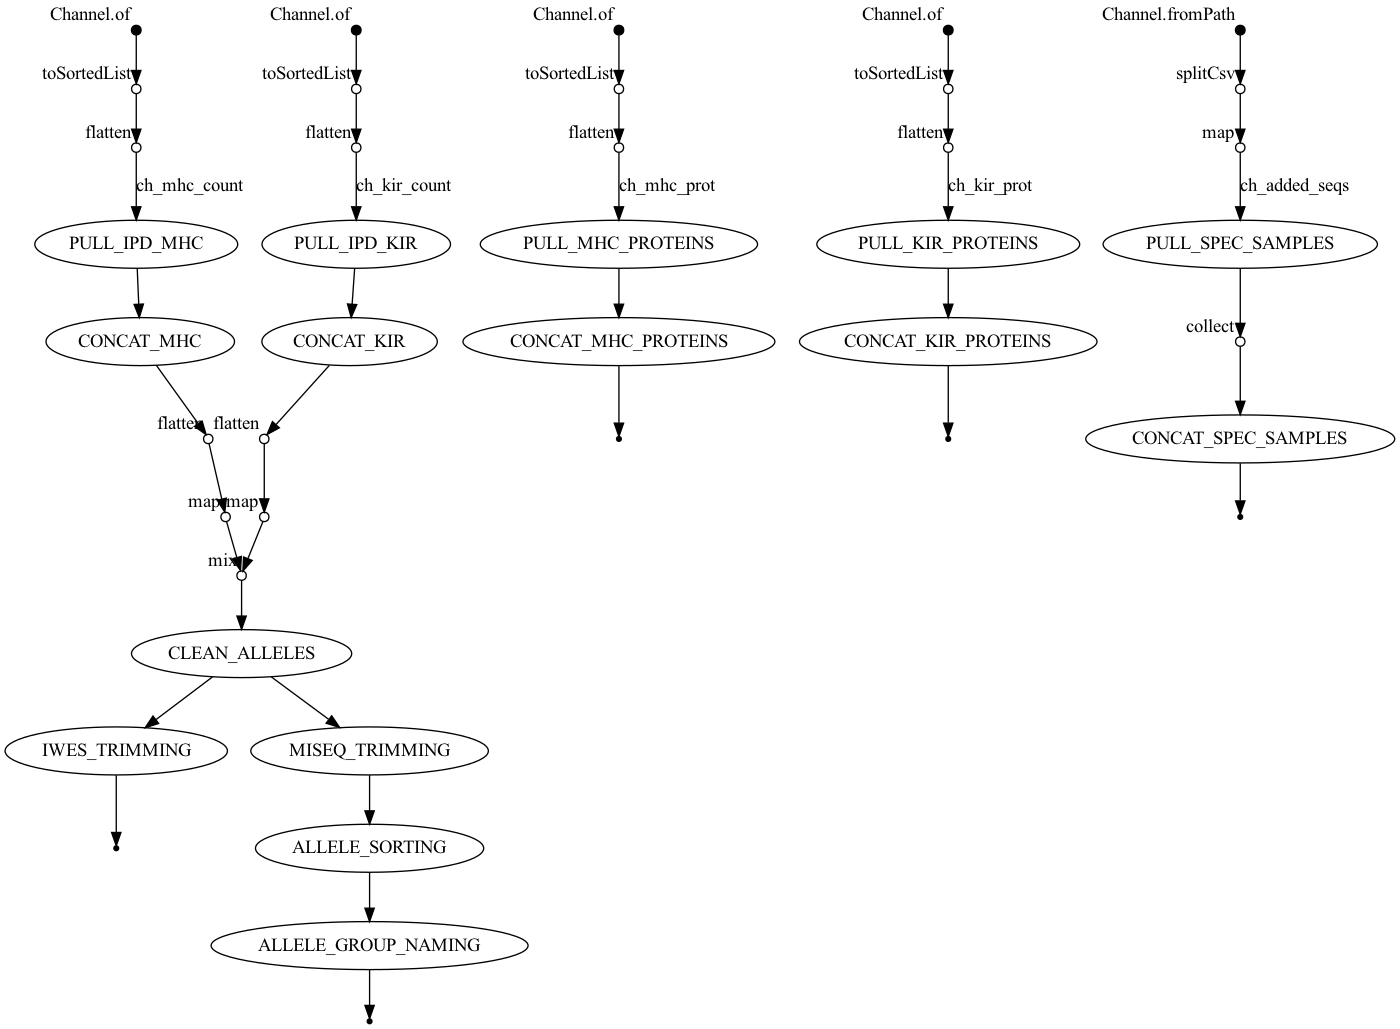
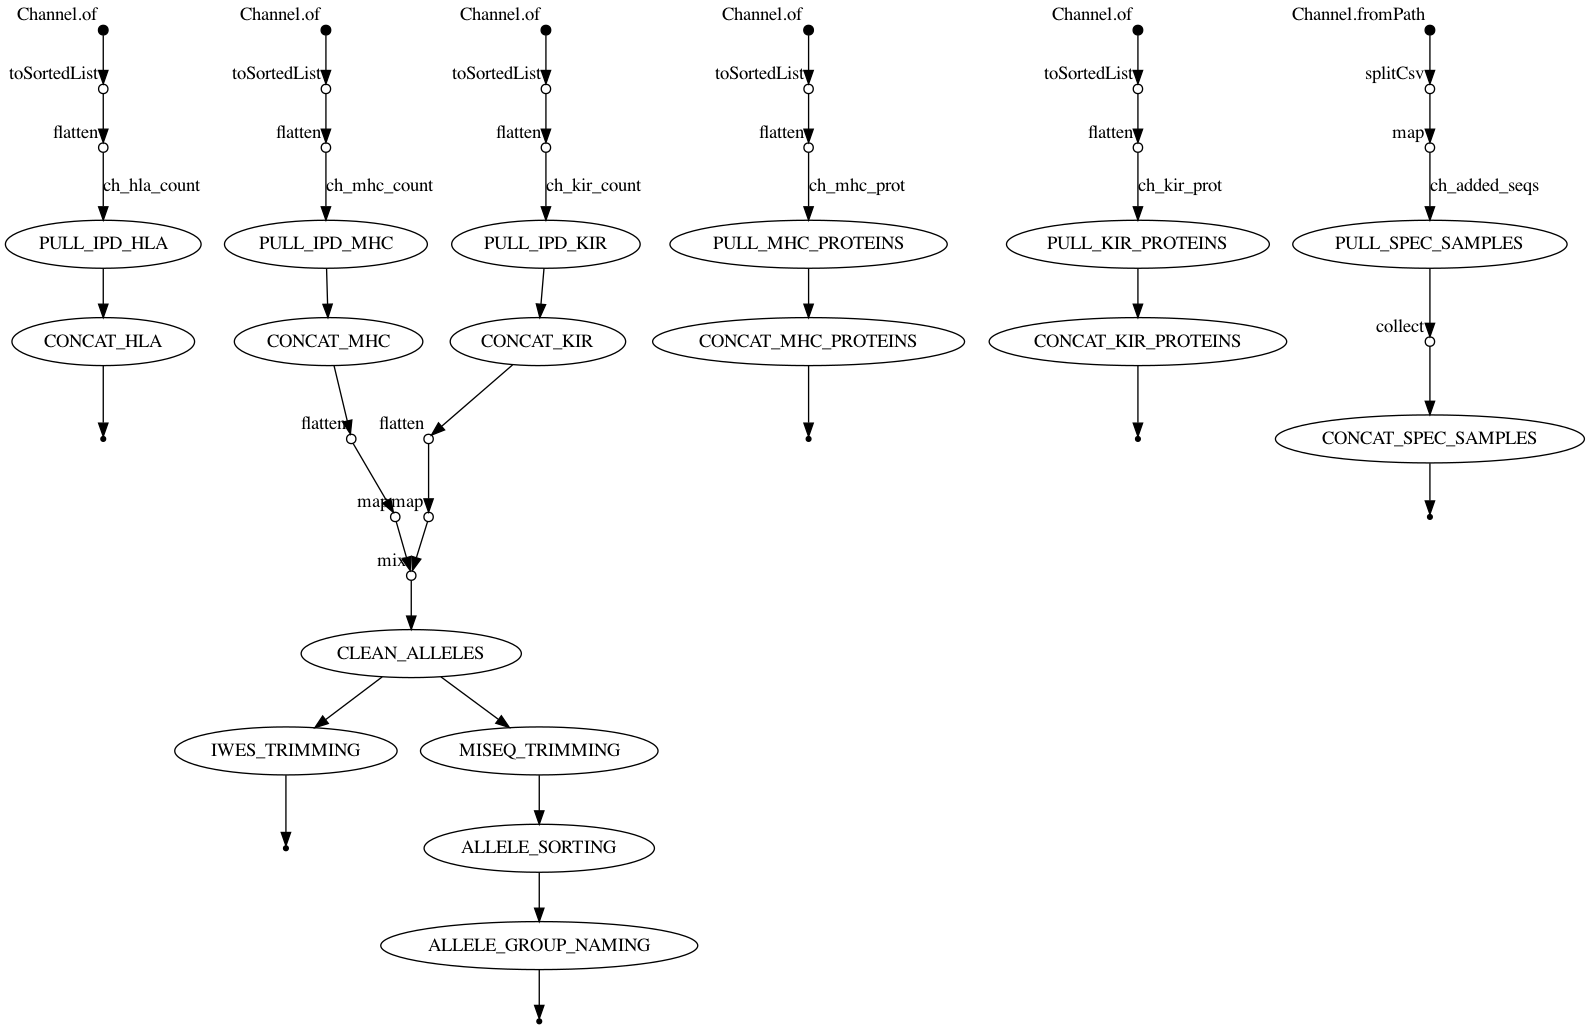
adding the ability to download HLA sequences

diff --git a/bin/download_ipd-hla_sequences.py b/bin/download_ipd-hla_sequences.py
@@ -1,0 +1,69 @@
+#!/usr/bin/env python3
+
+# -*- coding: utf-8 -*-
+"""27453-download-ipd.ipynb
+
+Automatically generated by Colaboratory.
+
+Original file is located at
+    https://colab.research.google.com/drive/1FuxOmf46uVM9-kYeO27YBJF8AzJs2_0P
+"""
+
+# requests installed by default in google colab
+# install biopython
+# !pip install biopython
+
+import Bio
+import sys
+from Bio import SeqIO
+import requests
+from datetime import datetime
+
+ipd_number = int(sys.argv[1])
+
+# create output genbank file for entire database
+with open("ipd-hla-" + datetime.today().strftime('%Y-%m-%d') + "_" + str(ipd_number) + ".gbk", "a") as hla_allele:
+
+  # add leading zeros and nhp prefix
+  # this is the EBI dbfetch format
+  hla_id = 'HLA' + str(ipd_number).zfill(5)
+
+  # get record
+  u = requests.get("https://www.ebi.ac.uk/Tools/dbfetch/dbfetch?db=imgthla;id=" + hla_id + "&style=raw")
+
+  # IPD MHC uses non-standard ID line
+  # need to remove first two semicolons in ID line
+  ipd_embl = u.text # read content
+  
+  # handle missing records
+  # these don't have identifiers and can be skipped
+  if not ipd_embl.startswith('ID'):
+    hla_allele.close()
+  else:
+    ipd_line = ipd_embl.splitlines() # split by line
+    id_line = ipd_line[0] # get ID line
+    id_line_split = id_line.split(';') # split elements by semicolon
+
+    # reconstruct ID line in EMBL format that can be parsed by biopython
+    ipd_line[0] = id_line_split[0] + ' ' + id_line_split[1] + ' ' + id_line_split[2] + '; ' + id_line_split[3] + '; ' + id_line_split[4] + '; ' + id_line_split[5]
+    
+    # reconstruct KW/locus line
+    kw_line = ipd_line[9]
+    kw_line_split = kw_line.split(',')
+    ipd_line[9] = kw_line_split[0]
+
+    # join lines to create embl file
+    embl_file = ('\n').join(ipd_line)
+
+    # create temporary file in correct EMBL format
+    # i tried to use tempfile but couldn't get it to work
+    with open("response.embl", "w") as f:
+        f.write(embl_file)
+
+    # read EMBL file and export as Genbank
+    for record in SeqIO.parse("response.embl", "embl"):
+        # record.description = record.name
+        
+        record.name = record.annotations['keywords'][3]
+        print(record.name + ' - ' + record.description)
+        SeqIO.write(record, hla_allele, "genbank")
